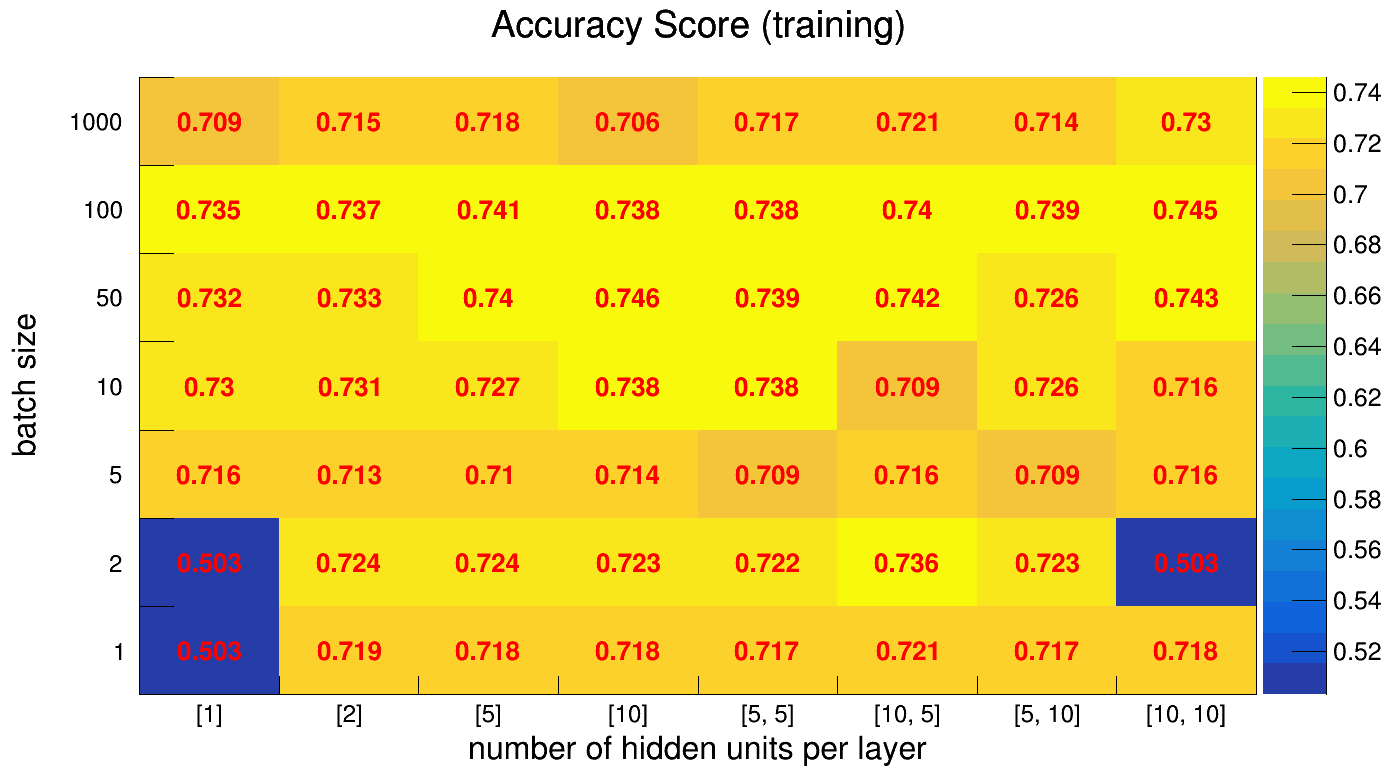
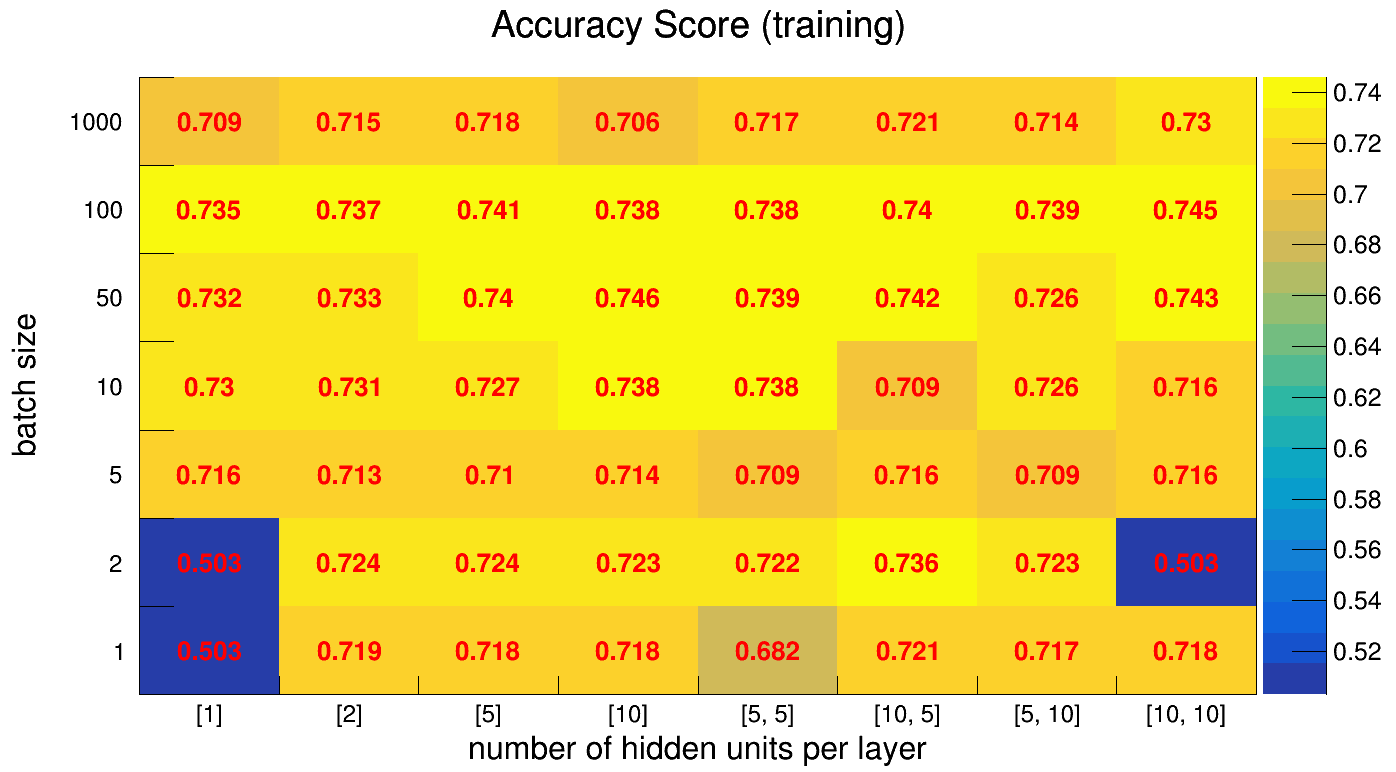
Add results obtained at Phi07 server

Changed region(s): [[0.4928, 0.7772, 0.616, 0.9016]]

diff --git a/modules/plot_hist2d.py b/modules/plot_hist2d.py
@@ -10,25 +10,95 @@ from ROOT import gROOT, TCanvas, TH2F
 gROOT.SetBatch(True)
 
 
-# Phi02_adam
-timing = [26.215679, 28.540846, 26.419376, 22.628265, 29.898935, 26.807327, 30.356528, 28.386068, 12.19813, 15.141432, 10.148861, 13.421314, 16.22232, 16.82215, 16.464606, 16.37512, 7.616649, 7.479513, 6.409795, 7.789416, 8.913824, 8.547696, 8.770934, 8.640597, 5.118218, 5.381024, 5.701675, 5.294609, 5.531809, 5.86191, 6.24442, 5.66175, 3.255577, 3.722482, 3.492225, 3.569185, 4.301058, 3.935569, 4.226427, 4.189655, 3.359671, 2.955854, 2.929028, 2.988012, 3.728422, 3.54982, 3.774447, 4.280285, 2.803418, 2.875671, 2.791564, 2.940498, 3.481508, 3.713001, 3.489983, 3.326119]
+# Phi07
+timing = [129.435417, 130.782167, 129.400905, 130.369368, 139.926475, 139.803766, 138.19056,
+          139.035753, 75.415187, 75.268291, 76.282844, 76.853638, 81.177305, 82.827004,
+          82.926606, 82.812342, 44.011692, 44.572372, 44.857313, 45.163535, 49.588192,
+          49.702251, 49.797459, 50.028261, 34.146429, 34.2105, 34.265285, 34.523121,
+          38.881662, 38.811831, 38.622575, 38.76765, 25.482178, 25.518392, 25.568876,
+          25.83615, 30.12989, 30.011547, 29.925084, 29.772206, 24.509037, 24.406587,
+          24.387076, 24.378876, 28.754643, 29.107339, 29.176516, 28.817033, 23.471295,
+          23.466376, 23.556738, 23.782677, 28.10843, 28.119152, 28.153659, 28.225582]
 
-train_accuracy = [0.50338739, 0.71870196, 0.71790493, 0.71750641, 0.71665245, 0.72080845, 0.71653855, 0.71767718, 0.50338739, 0.72411042, 0.72416741, 0.72325647, 0.72183317, 0.73589522, 0.72325647, 0.50338739, 0.71585542, 0.71340734, 0.70959294, 0.71363509, 0.70942217, 0.71619695, 0.7091375, 0.71625394, 0.73042983, 0.73077142, 0.72707087, 0.73840022, 0.73817253, 0.70896667, 0.72627383, 0.71596926, 0.73185313, 0.73253632, 0.7397666, 0.74602902, 0.73948193, 0.74175918, 0.72587532, 0.74306858, 0.73498434, 0.73697692, 0.74130374, 0.73766011, 0.7380017, 0.74027896, 0.73879874, 0.7445488, 0.70856816, 0.71528608, 0.71756333, 0.70566469, 0.71710789, 0.7205807, 0.71363509, 0.72980356]
+train_accuracy = [0.50338739, 0.71870196, 0.71790493, 0.71750641, 0.71665245, 0.72080845, 0.71653855,
+                  0.71767718, 0.50338739, 0.72411042, 0.72416741, 0.72325647, 0.72183317, 0.73589522,
+                  0.72325647, 0.50338739, 0.71585542, 0.71340734, 0.70959294, 0.71363509, 0.70942217,
+                  0.71619695, 0.7091375, 0.71625394, 0.73042983, 0.73077142, 0.72707087, 0.73840022,
+                  0.73817253, 0.70896667, 0.72627383, 0.71596926, 0.73185313, 0.73253632, 0.7397666,
+                  0.74602902, 0.73948193, 0.74175918, 0.72587532, 0.74306858, 0.73498434, 0.73697692,
+                  0.74130374, 0.73766011, 0.7380017, 0.74027896, 0.73879874, 0.7445488, 0.70856816,
+                  0.71528608, 0.71756333, 0.70566469, 0.71710789, 0.7205807, 0.71363509, 0.72980356]
 
-test_accuracy = [0.50962943, 0.71603137, 0.71364057, 0.71563292, 0.71457034, 0.71656263, 0.71297652, 0.71271086, 0.50962943, 0.71895337, 0.71855491, 0.71589851, 0.71722674, 0.73210251, 0.71935183, 0.50962943, 0.71151549, 0.70819497, 0.70221812, 0.7069996, 0.70514011, 0.71018726, 0.70633548, 0.71350777, 0.72732103, 0.72439897, 0.7232036, 0.72891486, 0.7338292, 0.70261657, 0.72758669, 0.70593703, 0.73064154, 0.73064154, 0.73436046, 0.73714972, 0.73568869, 0.73289943, 0.7178908, 0.73422766, 0.73343074, 0.73422766, 0.73701686, 0.73104, 0.73489177, 0.73276663, 0.733962, 0.74033737, 0.70567143, 0.71682829, 0.71563292, 0.70274937, 0.71483594, 0.71616417, 0.7097888, 0.72466463]
+test_accuracy = [0.50962943, 0.71603137, 0.71364057, 0.71563292, 0.71457034, 0.71656263, 0.71297652,
+                 0.71271086, 0.50962943, 0.71895337, 0.71855491, 0.71589851, 0.71722674, 0.73210251,
+                 0.71935183, 0.50962943, 0.71151549, 0.70819497, 0.70221812, 0.7069996, 0.70514011,
+                 0.71018726, 0.70633548, 0.71350777, 0.72732103, 0.72439897, 0.7232036, 0.72891486,
+                 0.7338292, 0.70261657, 0.72758669, 0.70593703, 0.73064154, 0.73064154, 0.73436046,
+                 0.73714972, 0.73568869, 0.73289943, 0.7178908, 0.73422766, 0.73343074, 0.73422766,
+                 0.73701686, 0.73104, 0.73489177, 0.73276663, 0.733962, 0.74033737, 0.70567143,
+                 0.71682829, 0.71563292, 0.70274937, 0.71483594, 0.71616417, 0.7097888, 0.72466463]
 
 """
-# MACMINI_adam
-timing = [19.653414, 19.119879, 19.225279, 19.316461, 20.632058, 20.845365, 20.924385, 21.330284, 11.963459, 11.919985, 11.850586, 12.105316, 12.947198, 13.169154, 13.002206, 12.935541, 7.296905, 7.252537, 7.336213, 7.250607, 8.155636, 8.342255, 8.274422, 8.137192, 5.888792, 5.759837, 5.836069, 5.881778, 6.659572, 6.549491, 6.562548, 6.668397, 4.441269, 4.483467, 4.454115, 4.500572, 5.471434, 5.319134, 5.43853, 5.318957, 4.442768, 4.465011, 4.300926, 4.430185, 5.250048, 5.100899, 5.397764, 5.215705, 4.247366, 4.281971, 4.233349, 4.199135, 4.946871, 4.911522, 4.850724, 4.978875]
+# Phi02
+timing = [24.958813, 22.939601, 19.876617, 25.947282, 24.427589, 24.097631, 25.558959,
+          23.068568, 13.020504, 12.913805, 12.697335, 12.5246, 14.288576, 14.266267,
+          13.55243, 12.490877, 4.555792, 6.372227, 6.110434, 5.050167, 5.470902,
+          5.891046, 5.61247, 6.46604, 3.710166, 3.616266, 3.457436, 3.868,
+          3.799345, 3.765791, 3.813843, 3.505164, 1.685139, 1.742189, 1.43237,
+          1.838488, 1.923574, 1.755096, 1.518887, 1.957961, 1.284795, 1.205487,
+          1.454109, 1.460375, 1.644515, 1.731534, 1.439038, 1.675174, 1.253042,
+          1.29649, 0.918461, 1.036228, 1.129123, 1.343374, 1.108401, 1.121017]
 
-train_accuracy = [0.50338739, 0.71944207, 0.73492742, 0.72206092, 0.72143465, 0.69775122, 0.50338739, 0.73219472, 0.50338739, 0.72143465, 0.73253632, 0.72092229, 0.73555368, 0.72314262, 0.70475376, 0.72496444, 0.73526901, 0.71841729, 0.71619695, 0.72490746, 0.72075152, 0.74027896, 0.7321378, 0.73099917, 0.73674923, 0.73276401, 0.74312556, 0.71966982, 0.73566753, 0.73720467, 0.73407346, 0.743581, 0.73726159, 0.74335325, 0.74056363, 0.74010819, 0.73304868, 0.74437803, 0.74147451, 0.74210078, 0.73282093, 0.73851407, 0.74005121, 0.73817253, 0.73766011, 0.74289781, 0.74005121, 0.74147451, 0.66108739, 0.69547397, 0.70936519, 0.70634782, 0.69814974, 0.7010532, 0.7229718, 0.7282095]
+train_accuracy = [0.50338739, 0.71870196, 0.71790493, 0.71750641, 0.68243665, 0.72080845, 0.71653855,
+                  0.71767718, 0.50338739, 0.72411042, 0.72416741, 0.72325647, 0.72183317, 0.73589522,
+                  0.72325647, 0.50338739, 0.71585542, 0.71346426, 0.70959294, 0.71363509, 0.70942217,
+                  0.71619695, 0.7091375, 0.71625394, 0.73042983, 0.73077142, 0.72707087, 0.73840022,
+                  0.73817253, 0.70896667, 0.72627383, 0.71596926, 0.73185313, 0.73253632, 0.7397666,
+                  0.74608594, 0.73948193, 0.74175918, 0.72587532, 0.74306858, 0.73498434, 0.73697692,
+                  0.74130374, 0.73766011, 0.7380017, 0.74027896, 0.73879874, 0.7445488, 0.70856816,
+                  0.71528608, 0.71756333, 0.70566469, 0.71716481, 0.7205807, 0.71363509, 0.72980356]
 
-test_accuracy = [0.50962943, 0.7149688, 0.72771949, 0.71828926, 0.71749234, 0.69398326, 0.50962943, 0.72439897, 0.50962943, 0.7176252, 0.72652411, 0.71536726, 0.72771949, 0.71975029, 0.70673394, 0.71895337, 0.7283836, 0.71178108, 0.71058571, 0.7176252, 0.71204674, 0.73343074, 0.72732103, 0.73170406, 0.73170406, 0.72705537, 0.73409486, 0.71443748, 0.72811794, 0.73223537, 0.72439897, 0.73542303, 0.73104, 0.73635274, 0.73409486, 0.73462611, 0.73276663, 0.73502457, 0.73741531, 0.73768097, 0.72227389, 0.73329794, 0.73582149, 0.73542303, 0.72785228, 0.73449332, 0.7336964, 0.73143846, 0.65918452, 0.6907956, 0.70660114, 0.70314783, 0.68946737, 0.69597554, 0.71868771, 0.72493029]
+test_accuracy = [0.50962943, 0.71603137, 0.71364057, 0.71563292, 0.6800372, 0.71656263, 0.71297652,
+                 0.71271086, 0.50962943, 0.71895337, 0.71855491, 0.71589851, 0.71722674, 0.73210251,
+                 0.71935183, 0.50962943, 0.71151549, 0.70739806, 0.70221812, 0.7069996, 0.70514011,
+                 0.71018726, 0.70633548, 0.71350777, 0.72732103, 0.72439897, 0.7232036, 0.72891486,
+                 0.7338292, 0.70261657, 0.72758669, 0.70593703, 0.73064154, 0.73064154, 0.73436046,
+                 0.73714972, 0.73568869, 0.73289943, 0.7178908, 0.73422766, 0.73343074, 0.73422766,
+                 0.73701686, 0.73104, 0.73489177, 0.73276663, 0.733962, 0.74033737, 0.70567143,
+                 0.71682829, 0.71563292, 0.70274937, 0.71483594, 0.71616417, 0.7097888, 0.72466463]
 """
 
+"""
+# MacMini
+timing = [19.653414, 19.119879, 19.225279, 19.316461, 20.632058, 20.845365, 20.924385,
+          21.330284, 11.963459, 11.919985, 11.850586, 12.105316, 12.947198, 13.169154,
+          13.002206, 12.935541, 7.296905, 7.252537, 7.336213, 7.250607, 8.155636,
+          8.342255, 8.274422, 8.137192, 5.888792, 5.759837, 5.836069, 5.881778,
+          6.659572, 6.549491, 6.562548, 6.668397, 4.441269, 4.483467, 4.454115,
+          4.500572, 5.471434, 5.319134, 5.43853, 5.318957, 4.442768, 4.465011,
+          4.300926, 4.430185, 5.250048, 5.100899, 5.397764, 5.215705, 4.247366,
+          4.281971, 4.233349, 4.199135, 4.946871, 4.911522, 4.850724, 4.978875]
+
+train_accuracy = [0.50338739, 0.71944207, 0.73492742, 0.72206092, 0.72143465, 0.69775122, 0.50338739,
+                  0.73219472, 0.50338739, 0.72143465, 0.73253632, 0.72092229, 0.73555368, 0.72314262,
+                  0.70475376, 0.72496444, 0.73526901, 0.71841729, 0.71619695, 0.72490746, 0.72075152,
+                  0.74027896, 0.7321378, 0.73099917, 0.73674923, 0.73276401, 0.74312556, 0.71966982,
+                  0.73566753, 0.73720467, 0.73407346, 0.743581, 0.73726159, 0.74335325, 0.74056363,
+                  0.74010819, 0.73304868, 0.74437803, 0.74147451, 0.74210078, 0.73282093, 0.73851407,
+                  0.74005121, 0.73817253, 0.73766011, 0.74289781, 0.74005121, 0.74147451, 0.66108739,
+                  0.69547397, 0.70936519, 0.70634782, 0.69814974, 0.7010532, 0.7229718, 0.7282095]
+
+test_accuracy = [0.50962943, 0.7149688, 0.72771949, 0.71828926, 0.71749234, 0.69398326, 0.50962943,
+                 0.72439897, 0.50962943, 0.7176252, 0.72652411, 0.71536726, 0.72771949, 0.71975029,
+                 0.70673394, 0.71895337, 0.7283836, 0.71178108, 0.71058571, 0.7176252, 0.71204674,
+                 0.73343074, 0.72732103, 0.73170406, 0.73170406, 0.72705537, 0.73409486, 0.71443748,
+                 0.72811794, 0.73223537, 0.72439897, 0.73542303, 0.73104, 0.73635274, 0.73409486,
+                 0.73462611, 0.73276663, 0.73502457, 0.73741531, 0.73768097, 0.72227389, 0.73329794,
+                 0.73582149, 0.73542303, 0.72785228, 0.73449332, 0.7336964, 0.73143846, 0.65918452,
+                 0.6907956, 0.70660114, 0.70314783, 0.68946737, 0.69597554, 0.71868771, 0.72493029]
+"""
 
 xl = [[1], [2], [5], [10], [5, 5], [10, 5], [5, 10], [10, 10]]
-
 yl = [1, 2, 5, 10, 50, 100, 1000]
 
 nx = len(xl)
